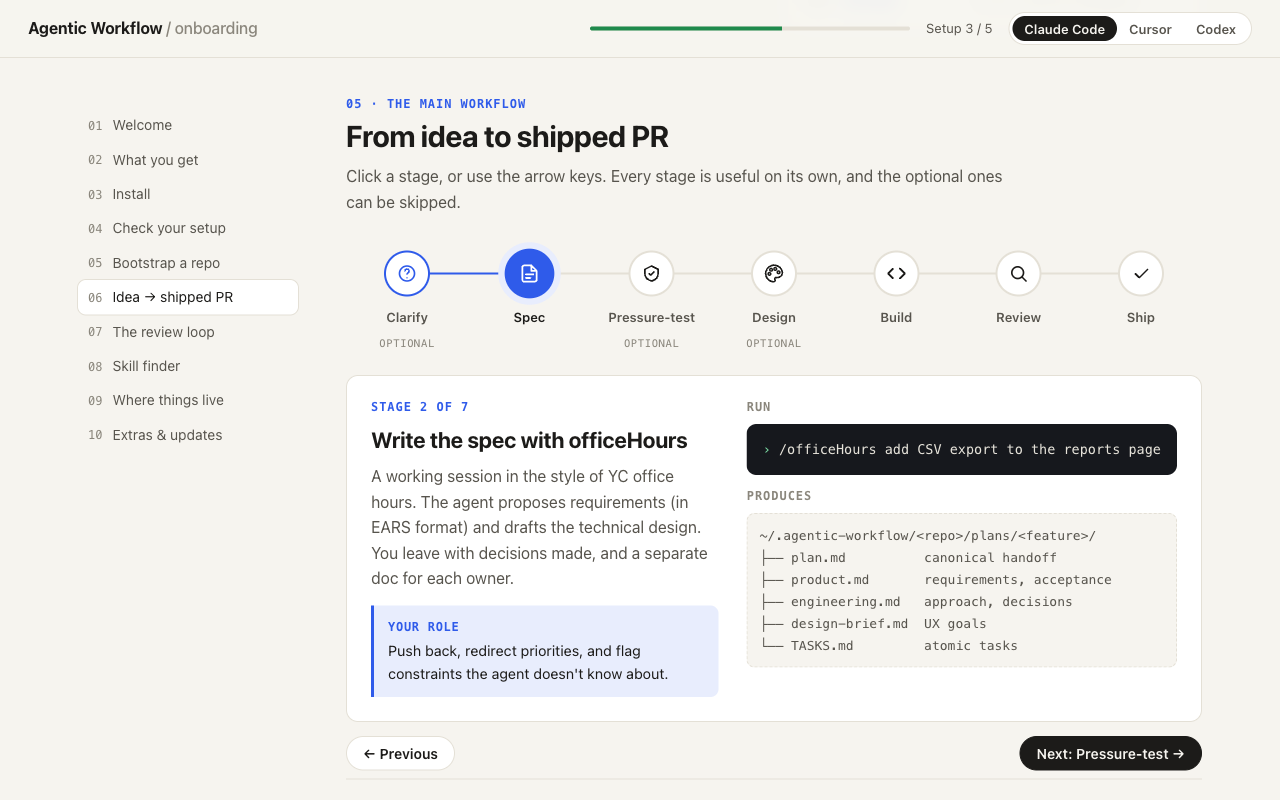
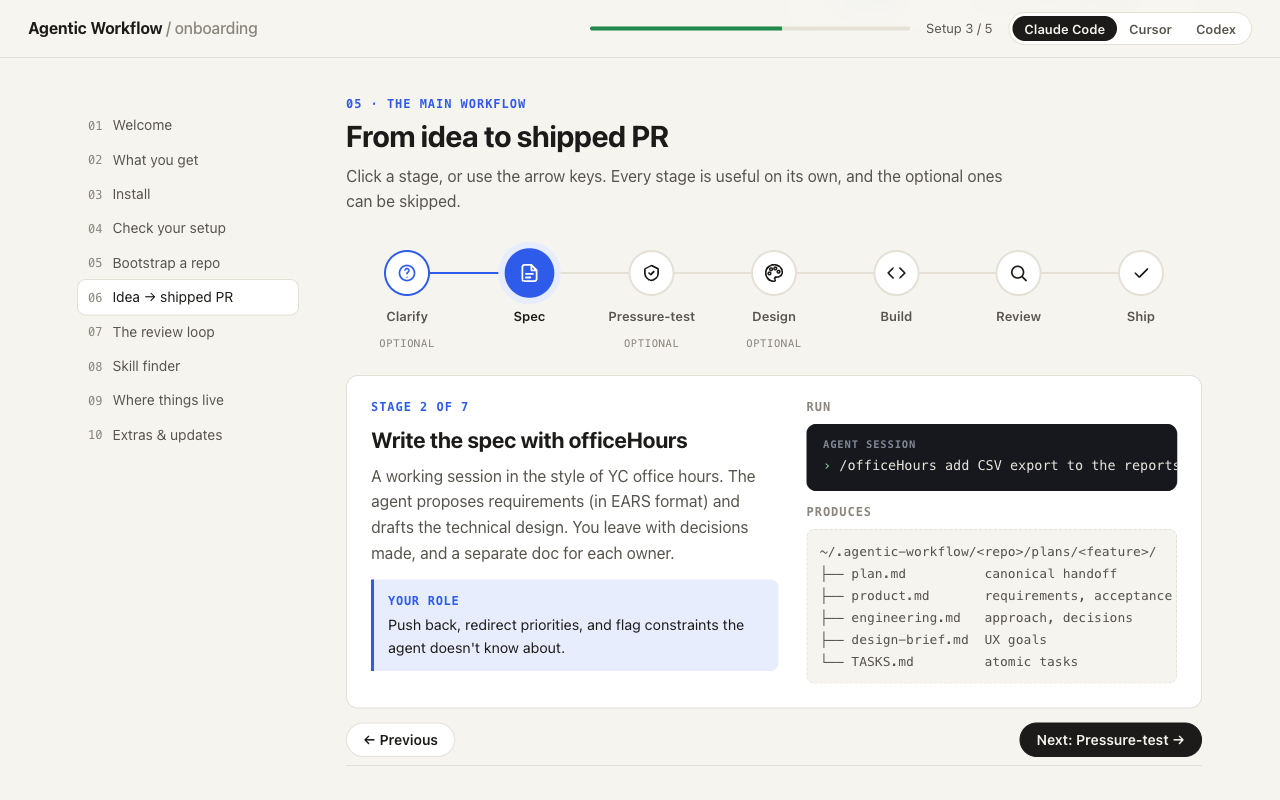
docs: say where to type each command in the onboarding guide
Skills run at the agent's prompt, not the shell. Typing one into zsh
fails with "no such file or directory: /prismStatus". Add a terminal
vs agent-session legend, label every command block, name the location
in the checklist, and add the zsh error to the troubleshooting list.
Screenshots retaken.

diff --git a/docs/onboarding.html b/docs/onboarding.html
@@ -87,6 +87,11 @@
   /* Code */
   .term { position: relative; background: var(--code-bg); color: var(--code-ink); border-radius: 10px; padding: 14px 16px; margin: 10px 0; font: 13.5px/1.7 var(--mono); overflow-x: auto; white-space: pre; }
   .term .c { color: #7f8793; }
+  .term[data-kind]::before { content: attr(data-kind); display: block; font: 600 10.5px var(--mono); letter-spacing: .08em; text-transform: uppercase; color: #7f8793; margin-bottom: 4px; }
+  .where { display: grid; grid-template-columns: 1fr 1fr; gap: 12px; margin-top: 22px; }
+  .where .card { padding: 16px 18px; }
+  .where .glyph { font: 700 13px var(--mono); display: inline-grid; place-items: center; width: 26px; height: 26px; border-radius: 7px; background: var(--code-bg); color: #7ee2a8; margin-right: 8px; vertical-align: -2px; }
+  .where .card p { margin-top: 6px; }
   .term .pr { color: #7ee2a8; user-select: none; }
   .copy { position: absolute; top: 8px; right: 8px; border: 1px solid #333842; background: #22252c; color: #c9c6bd; font: 12px var(--sans); padding: 3px 9px; border-radius: 6px; cursor: pointer; opacity: .8; }
   .copy:hover { opacity: 1; }
@@ -183,14 +188,14 @@
   .two { display: grid; grid-template-columns: minmax(0, 1fr) minmax(0, 1fr); gap: 16px; align-items: start; }
 
   .callout { display: flex; gap: 12px; background: var(--warn-soft); color: var(--ink); border-radius: 10px; padding: 12px 16px; font-size: 14.5px; margin: 14px 0; }
-  .callout b { color: var(--warn); }
+  .callout b { color: var(--warn); white-space: nowrap; }
 
   footer { margin-top: 64px; padding-top: 24px; border-top: 1px solid var(--line); color: var(--ink-3); font-size: 14px; }
 
   @media (max-width: 900px) {
     .layout { grid-template-columns: 1fr; }
     nav.toc { display: none; }
-    .hero-grid, .two, .stage-detail { grid-template-columns: 1fr; }
+    .hero-grid, .two, .stage-detail, .where { grid-template-columns: 1fr; }
     .pipeline { grid-template-columns: repeat(7, minmax(64px, 1fr)); overflow-x: auto; }
     .progress, .progress-label { display: none; }
   }
@@ -232,6 +237,17 @@
       <p class="eyebrow">Onboarding guide</p>
       <h1>From a fresh clone to your first shipped PR.</h1>
       <p class="lede">Agentic Workflow gives your AI coding agent a shared set of skills, safety rails, and tools. It works the same way in Claude Code, Codex, and Cursor. Install it once and it's available in every repo.</p>
+      <div class="where">
+        <div class="card">
+          <h3><span class="glyph">$</span>Terminal</h3>
+          <p>Blocks labeled <b>terminal</b> run in your shell (zsh, bash): <code>./setup.sh</code>, <code>git pull</code>, <code>scorer --since 7d</code>.</p>
+        </div>
+        <div class="card">
+          <h3><span class="glyph">›</span>Agent session</h3>
+          <p>Skills like <code data-cmd>bootstrap</code> and <code data-cmd>review</code> run <b>inside the agent</b>. Start <code>claude</code>, <code>codex</code>, or <code>cursor-agent</code> in the repo, then type them at its prompt.</p>
+        </div>
+      </div>
+      <div class="callout"><b>Heads up</b><span>Typing a skill into your terminal fails with <code>zsh: no such file or directory: /prismStatus</code>. The shell reads it as a file path. Run it at the agent's prompt instead.</span></div>
       <p class="muted">Pick your agent CLI in the top-right corner. Every command on this page updates to use your CLI's skill syntax (<code data-cmd-prefix>/</code>).</p>
       <div class="hero-grid">
         <div class="hero-card"><b>44</b><span>skills for planning, design, build, review, debugging, and shipping</span></div>
@@ -326,19 +342,20 @@
     <section id="verify">
       <p class="eyebrow">03 · Check your setup</p>
       <h2>Check it worked</h2>
-      <p class="sub">Open a <b>new</b> agent session in any git repo and tick each item off. Your progress is saved in this browser and shown in the top bar.</p>
+      <p class="sub">Open a <b>new</b> agent session in any git repo (<code>cd</code> into it and run <code>claude</code>, <code>codex</code>, or <code>cursor-agent</code>) and tick each item off. Your progress is saved in this browser and shown in the top bar.</p>
       <div class="checklist" id="checklist">
         <label class="check"><input type="checkbox" data-key="gitctx"><div><div class="t">Git context appears when the session starts</div><div class="e">You see an <code>=== Git Context ===</code> block with your branch and recent commits.</div></div></label>
         <label class="check"><input type="checkbox" data-key="skills"><div><div class="t">Skills show up in autocomplete</div><div class="e">Type <code data-cmd-prefix>/</code> and look for <code data-cmd>officeHours</code>, <code data-cmd>review</code>, <code data-cmd>rootCause</code>.</div></div></label>
         <label class="check"><input type="checkbox" data-key="hooks"><div><div class="t">Safety hooks block destructive commands</div><div class="e">Ask the agent to run <code>rm -rf /tmp/x</code>. It should be blocked with <code>BLOCKED: rm -rf is destructive…</code></div></div></label>
-        <label class="check"><input type="checkbox" data-key="prism"><div><div class="t">Memory server is reachable</div><div class="e">Run <code data-cmd>prismStatus</code>. It reports the dashboard and MCP connection status.</div></div></label>
-        <label class="check"><input type="checkbox" data-key="toolkit"><div><div class="t">The toolkit link exists</div><div class="e"><code>ls ~/.agentic-workflow/</code> shows <code>toolkit</code> and <code>providers</code>.</div></div></label>
+        <label class="check"><input type="checkbox" data-key="prism"><div><div class="t">Memory server is reachable</div><div class="e">In the agent session, run <code data-cmd>prismStatus</code>. It reports the dashboard and MCP connection status.</div></div></label>
+        <label class="check"><input type="checkbox" data-key="toolkit"><div><div class="t">The toolkit link exists</div><div class="e">In a terminal, <code>ls ~/.agentic-workflow/</code> shows <code>toolkit</code> and <code>providers</code>.</div></div></label>
       </div>
 
       <h3 style="margin-top:36px">Something wrong?</h3>
       <p class="muted" style="margin-top:0">Click a symptom to see the fix.</p>
       <details><summary><span><span class="badge">MCP</span><code>serena</code> fails to connect</span></summary><div class="body">Docker isn't running. Start Docker Desktop, then restart the agent session.</div></details>
-      <details><summary><span><span class="badge">WARN</span>“prism-mcp dashboard unreachable at :7180”</span></summary><div class="body">The Mind Palace dashboard isn't up. This only affects memory features, so everything else still works. Run <code data-cmd>prismStatus</code> for details.</div></details>
+      <details><summary><span><span class="badge">WARN</span>“prism-mcp dashboard unreachable at :7180”</span></summary><div class="body">The Mind Palace dashboard isn't up. This only affects memory features, so everything else still works. Run <code data-cmd>prismStatus</code> in your agent session for details.</div></details>
+      <details><summary><span><span class="badge">SHELL</span><code>zsh: no such file or directory: /prismStatus</code></span></summary><div class="body">You typed a skill into your terminal. Skills run inside the agent: start <code>claude</code> (or <code>codex</code>, <code>cursor-agent</code>), then type <code data-cmd>prismStatus</code> at its prompt.</div></details>
       <details><summary><span><span class="badge">SKILLS</span>Skills missing in Codex or Cursor</span></summary><div class="body">Re-run <code>./setup.sh --providers &lt;name&gt;</code>, then check that <code>~/.agentic-workflow/providers</code> lists your provider.</div></details>
       <details><summary><span><span class="badge">HOOKS</span>Hooks do nothing in Codex</span></summary><div class="body">You haven't trusted them yet. Open <code>codex</code>, run <code>/hooks</code>, and trust every <code>aw:*</code> entry.</div></details>
       <details><summary><span><span class="badge">SKILLS</span>A skill says “toolkit not installed”</span></summary><div class="body"><code>~/.agentic-workflow/toolkit</code> is missing or broken. Re-run <code>./setup.sh</code> from your clone.</div></details>
@@ -350,7 +367,7 @@
     <section id="bootstrap">
       <p class="eyebrow">04 · Once per repo</p>
       <h2>Bootstrap a repo</h2>
-      <p class="sub">In the repo you want to work in, run one skill. It checks what documentation exists and writes the rest, adapted to your stack. Commit the output so every future session starts with the same context.</p>
+      <p class="sub">Start an agent session in the repo you want to work in, then run one skill. It checks what documentation exists and writes the rest, adapted to your stack. Commit the output so every future session starts with the same context.</p>
       <div class="two">
         <div>
           <div class="term"><span class="pr">› </span><span data-cmd>bootstrap</span>
@@ -405,7 +422,7 @@
     <section id="finder">
       <p class="eyebrow">07 · Quick reference</p>
       <h2>Which skill do I reach for?</h2>
-      <p class="sub">Search by what you're trying to do.</p>
+      <p class="sub">Search by what you're trying to do. Every command here is a skill, so type it in your agent session.</p>
       <div class="finder">
         <div class="finder-top">
           <input id="finderInput" type="search" placeholder="e.g. debug, security, spec, deploy…" aria-label="Search skills">
@@ -595,6 +612,7 @@
         <div class="term">${cmds}</div>
         ${s.out ? `<p class="eyebrow" style="color:var(--ink-3);margin-top:14px">Produces</p><div class="out">${escapeHtml(s.out)}</div>` : ""}
       </div>`;
+    labelTerms(d);
     document.getElementById("prevStage").disabled = current === 0;
     const next = document.getElementById("nextStage");
     next.disabled = current === STAGES.length - 1;
@@ -662,9 +680,18 @@
   }, { rootMargin: "-40% 0px -55% 0px" });
   document.querySelectorAll("main section").forEach(s => io.observe(s));
 
+  function labelTerms(root) {
+    root.querySelectorAll(".term").forEach(t => {
+      const prompts = [...t.querySelectorAll(".pr")].map(p => p.textContent.trim());
+      const shell = prompts.includes("$"), agent = prompts.includes("›");
+      t.dataset.kind = shell && agent ? "terminal, then agent session" : agent ? "agent session" : "terminal";
+    });
+  }
+
   function escapeHtml(s) { return s.replace(/[&<>"]/g, c => ({ "&": "&amp;", "<": "&lt;", ">": "&gt;", '"': "&quot;" }[c])); }
 
   document.querySelectorAll(".tree").forEach(el => { el.innerHTML = el.innerHTML.trim(); });
+  labelTerms(document);
   applyProvider();
   renderStage();
   renderFinder();

diff --git a/ONBOARDING.md b/ONBOARDING.md
@@ -4,7 +4,14 @@ A how-to guide for engineers and PMs who want to use Agentic Workflow in their o
 
 > **Prefer a visual walkthrough?** Open [`docs/onboarding.html`](docs/onboarding.html) in a browser (`open docs/onboarding.html`). It has an interactive pipeline, a setup checklist, and a skill finder you can search.
 
-> **Invoking skills:** this guide writes skills as `/<name>`, which is the Claude Code and Cursor syntax. In Codex, use `$<name>` instead (for example, `$review`).
+> **Where to type commands.** This guide has two kinds of commands:
+>
+> | Where | Looks like | How to run it |
+> |-------|------------|---------------|
+> | **Terminal** | `bash` blocks: `./setup.sh`, `git pull`, `scorer --since 7d` | Your shell (zsh, bash) |
+> | **Agent session** | Blocks labeled *In your agent session*: `/bootstrap`, `/review 123` | Start `claude`, `codex`, or `cursor-agent` in the repo, then type the skill at the agent's prompt |
+>
+> Skills are written `/<name>`, the Claude Code and Cursor syntax. In Codex, use `$<name>` (for example, `$review`). If you type a skill into your terminal, the shell treats it as a file path and fails with `zsh: no such file or directory: /prismStatus`.
 
 ---
 
@@ -51,7 +58,7 @@ To install for specific providers only, use `./setup.sh --providers claude` (or 
 
 ### Provider-specific follow-ups
 
-- **Codex:** open `codex`, run `/hooks`, and trust every `aw:*` entry. Codex won't run hooks you haven't trusted. Repeat this after a reinstall that changes a hook.
+- **Codex:** start `codex`, run `/hooks` at its prompt, and trust every `aw:*` entry. Codex won't run hooks you haven't trusted. Repeat this after a reinstall that changes a hook.
 - **Cursor:** if an MCP server is disabled on first use, run `cursor-agent mcp enable <name>` for it.
 - **Claude Code:** nothing else to do. Setup also installs the statusline and shell integration. Open a new terminal so the shell integration loads.
 
@@ -59,22 +66,23 @@ To install for specific providers only, use `./setup.sh --providers claude` (or 
 
 ## 3. Check it worked
 
-Open a new agent session in any git repo and check the following:
+Open a new agent session in any git repo (for example, `cd` into it and run `claude`) and check the following:
 
 | Check | Expected |
 |-------|----------|
 | Session start output | An `=== Git Context ===` block with your branch and recent commits |
 | Type `/` (or `$` in Codex) | Skills such as `officeHours`, `review`, and `rootCause` appear |
 | Ask the agent to run `rm -rf /tmp/x` | `BLOCKED: rm -rf is destructive and irreversible.` |
-| `/prismStatus` | Reports whether the prism-mcp dashboard and MCP connection are reachable |
-| `ls ~/.agentic-workflow/` | `toolkit` (symlink to your clone) and `providers` |
+| In the session, run `/prismStatus` | Reports whether the prism-mcp dashboard and MCP connection are reachable |
+| In a terminal, run `ls ~/.agentic-workflow/` | `toolkit` (symlink to your clone) and `providers` |
 
 ### Common first-day problems
 
 | Symptom | Fix |
 |---------|-----|
 | `serena` MCP fails to connect | Docker isn't running. Start Docker Desktop, then restart the session. |
-| `⚠ prism-mcp dashboard unreachable at :7180` at session start | The Mind Palace dashboard isn't up. It only affects memory features. Run `/prismStatus` for details. |
+| `⚠ prism-mcp dashboard unreachable at :7180` at session start | The Mind Palace dashboard isn't up. It only affects memory features. Run `/prismStatus` in your agent session for details. |
+| `zsh: no such file or directory: /prismStatus` (or any `/<skill>`) | You typed a skill into your terminal. Skills run inside the agent: start `claude` (or `codex`, `cursor-agent`), then type `/prismStatus` at its prompt. |
 | Skills missing in Codex or Cursor | Re-run `./setup.sh --providers <name>`, then check `~/.agentic-workflow/providers` |
 | Hooks do nothing in Codex | You haven't trusted them yet. Run `/hooks` in `codex`. |
 | A skill says the toolkit isn't installed | `~/.agentic-workflow/toolkit` is missing or broken. Re-run `./setup.sh` from your clone. |
@@ -85,7 +93,9 @@ Open a new agent session in any git repo and check the following:
 
 ## 4. Bootstrap a repo (once per repo)
 
-In the repo you want to work in, run:
+Start an agent session in the repo you want to work in, then run:
+
+*In your agent session:*
 
 ```
 /bootstrap
@@ -110,6 +120,8 @@ This walkthrough takes a small feature from idea to merged PR. You don't have to
 
 ### Step 1: Clarify the idea *(optional)*
 
+*In your agent session:*
+
 ```
 /withInterview officeHours "add CSV export to the reports page"
 ```
@@ -117,6 +129,8 @@ This walkthrough takes a small feature from idea to merged PR. You don't have to
 The agent interviews you first, then runs the skill you named (`officeHours` here) with a better prompt. Use it when the idea is still fuzzy. If the idea is already clear, `/enhancePrompt <request>` does a lighter version: it reads the repo docs and rewrites your request with that context.
 
 ### Step 2: Write the spec
+
+*In your agent session:*
 
 ```
 /officeHours add CSV export to the reports page
@@ -135,6 +149,8 @@ This is a working session. The agent proposes requirements, and you push back an
 
 ### Step 3: Pressure-test the plan *(optional but cheap)*
 
+*In your agent session:*
+
 ```
 /autoplan
 ```
@@ -142,6 +158,8 @@ This is a working session. The agent proposes requirements, and you push back an
 This runs the product, architecture, design, devex, and security reviews in parallel and consolidates the findings, including places where the reviews disagree. To run one review on its own, use `/productReview --mode mvp`, `/archReview`, `/planDesignReview`, `/planDevexReview`, or `/cso --plan`.
 
 ### Step 4: Design *(UI work only)*
+
+*In your agent session:*
 
 ```
 /design-language https://example.com     # brand personality + tokens (design-tokens.json, .impeccable.md)
@@ -154,6 +172,8 @@ Each of these checks whether the repo is web or iOS and routes to the matching `
 
 ### Step 5: Build it
 
+*In your agent session:*
+
 ```
 /specToProvenPR ~/.agentic-workflow/<repo-slug>/plans/<feature>/plan.md
 ```
@@ -164,6 +184,8 @@ If you'd rather build it yourself, just work normally and run `/verify-app auto`
 
 ### Step 6: Review
 
+*In your agent session:*
+
 ```
 /review 123           # parallel reviewers, one per domain → ~/.agentic-workflow/<repo-slug>/reviews/123.json
 /postReview 123       # publish findings to GitHub as batched PR comments (one review per agent)
@@ -173,6 +195,8 @@ If you'd rather build it yourself, just work normally and run `/verify-app auto`
 `/review` never posts to GitHub. It only writes to your local state file, so you can read the findings first. `/addressReview` also picks up new comments from human reviewers on the PR.
 
 ### Step 7: Ship
+
+*In your agent session:*
 
 ```
 /shipRelease          # sync, test, check coverage, push, open PR → /landAndDeploy → /canary → /syncDocs
@@ -185,6 +209,8 @@ After a deploy, `/canary` watches error rate, latency, and logs. If things look 
 ---
 
 ## 6. Which skill do I reach for?
+
+Everything in the right-hand column is a skill, so type it in your agent session.
 
 | I want to… | Use |
 |------------|-----|
